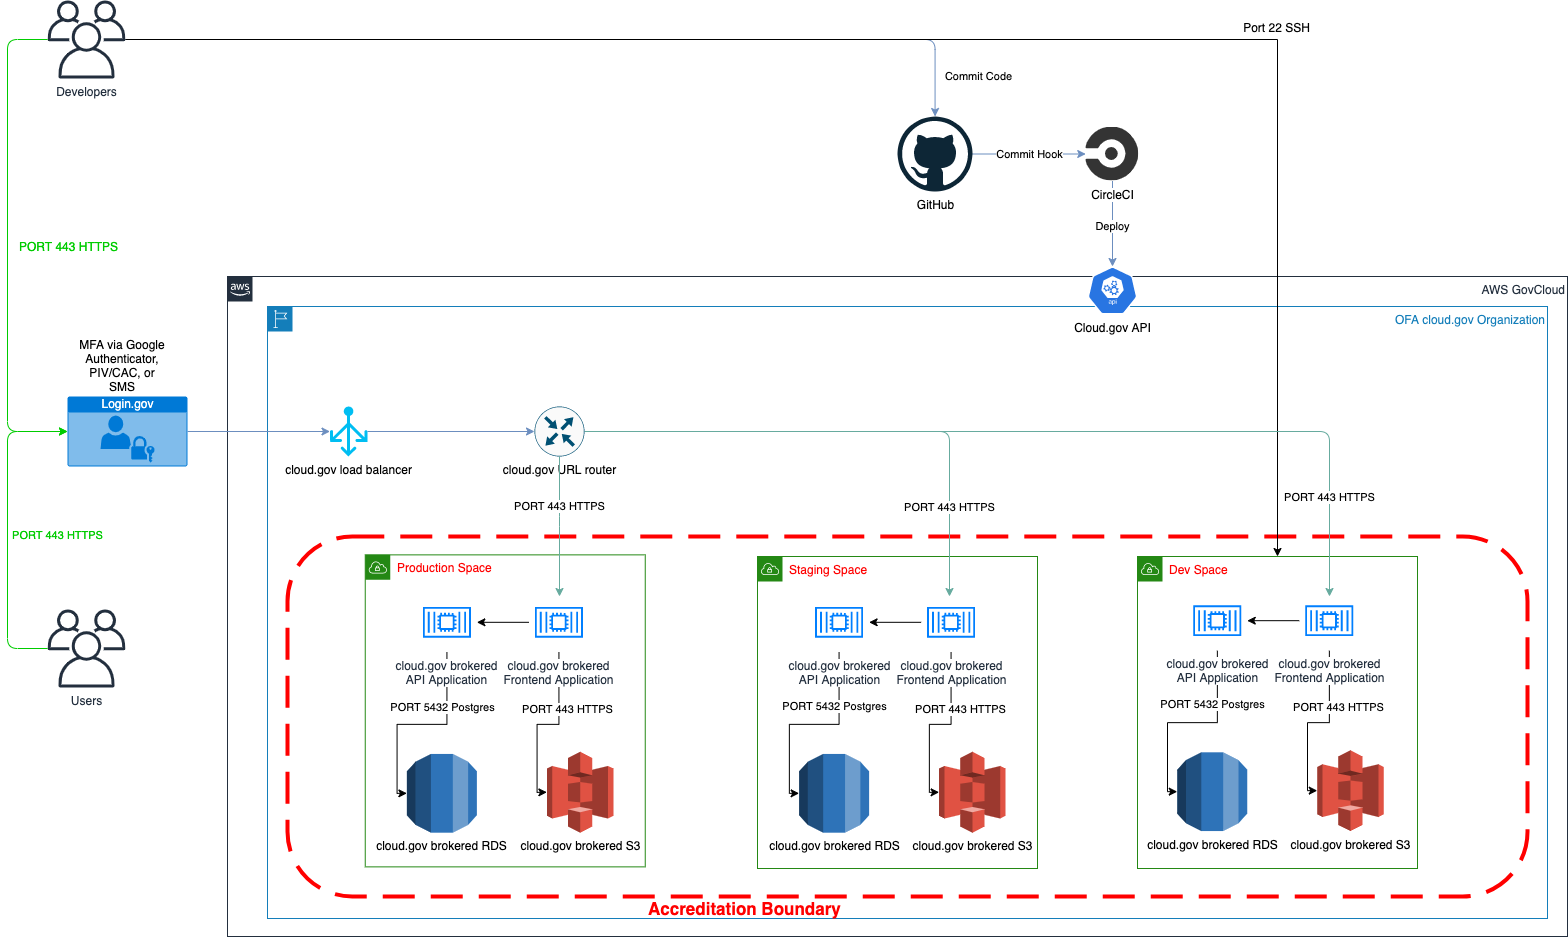
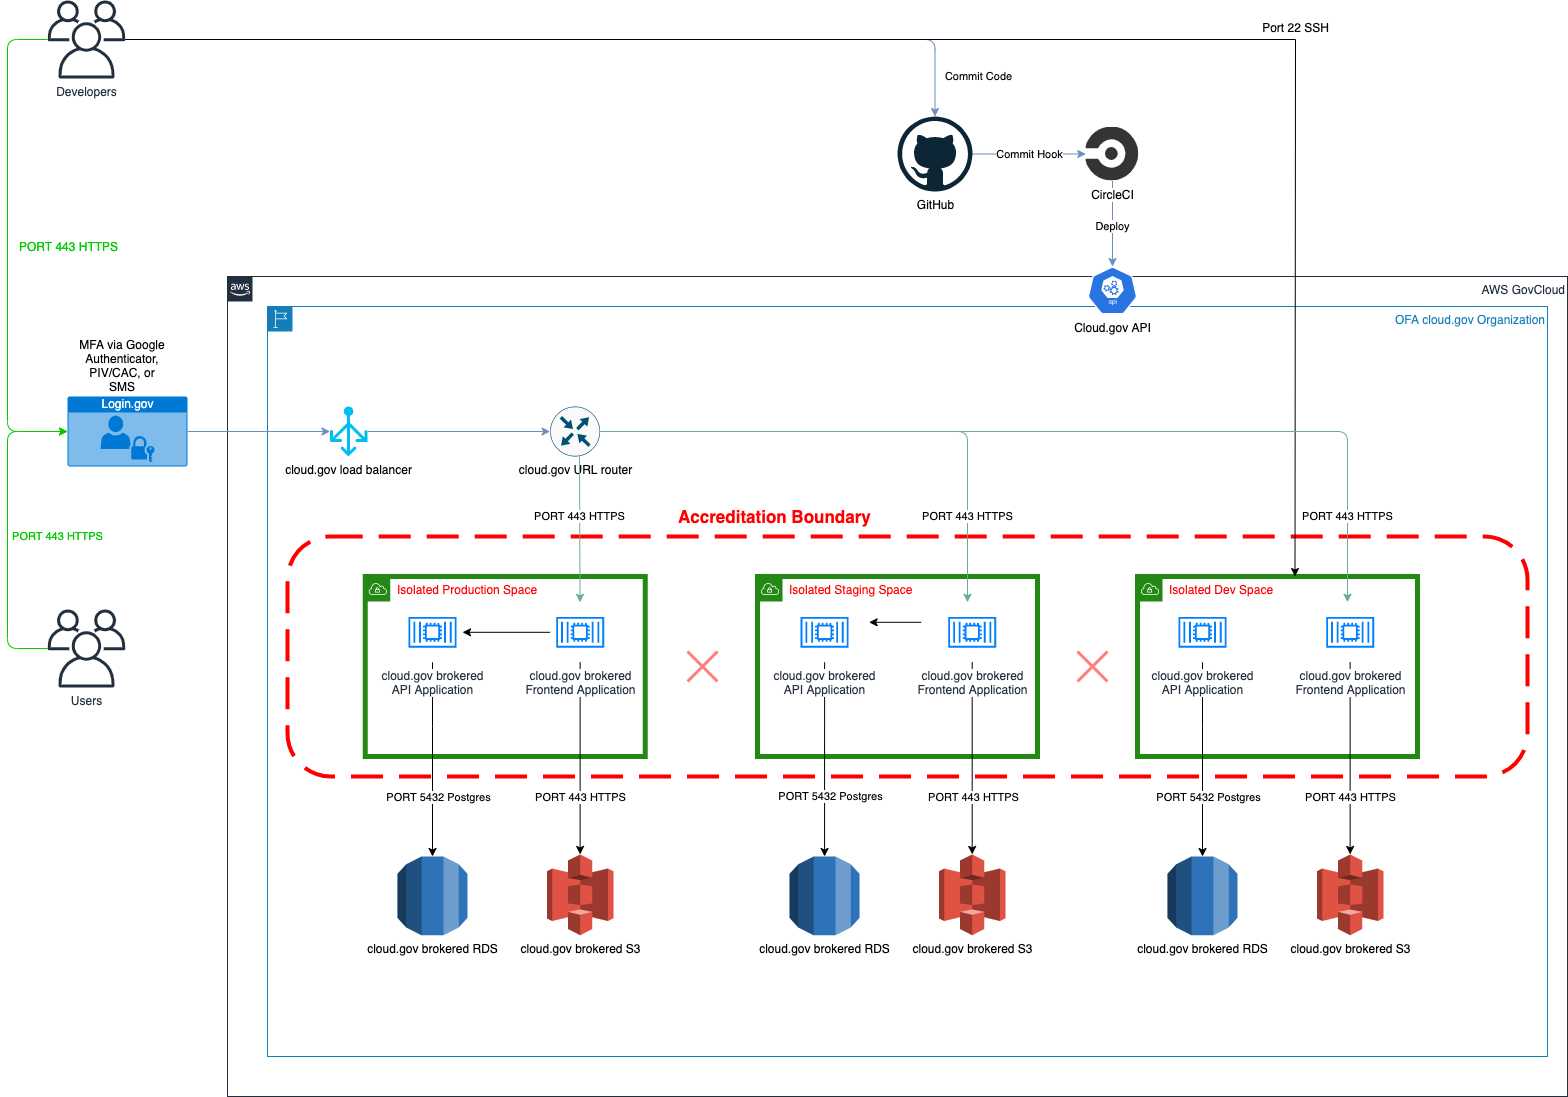
Add spaces documentation, adjust diagram

diff --git a/docs/Security-Compliance/boundary-diagram.md b/docs/Security-Compliance/boundary-diagram.md
@@ -6,6 +6,9 @@
 ### Data flow
 For the MVP, OFA admins will upload data on behalf of STTs and upload data files locally into the web application which will store the files in cloud.gov AWS S3 buckets. Developers will deploy new code through GitHub, initiating the continuous integration process through Circle CI.
 
+### Environments/Spaces
+Production, Staging, and Dev spaces provide users with access to a shared location for app development, deployment, and maintenance. The frontend and backend application in each environment is scoped to a space. Roles provide access control for these resources and each space role applies only to a particular space. Developer access to the Dev space does not permit access to Staging and Production.
+
 ### User access
 All web users, including OFA admins will log into the system through their web browsers using Login.gov and two factor authentication. Developers will also have access to the Dev Space using SSH. STT users will be required to be approved within the application by an administrator.
 
@@ -17,5 +20,5 @@ Application configuration will be handled by environment variables stored secure
 
 
 ## Updating
-- Edit this diagram with [draw.io](https://app.diagrams.net/)
-- Update the image and point download link to correct file
+* Edit this diagram with [draw.io](https://app.diagrams.net/)
+* Update the image and point download link to correct file
